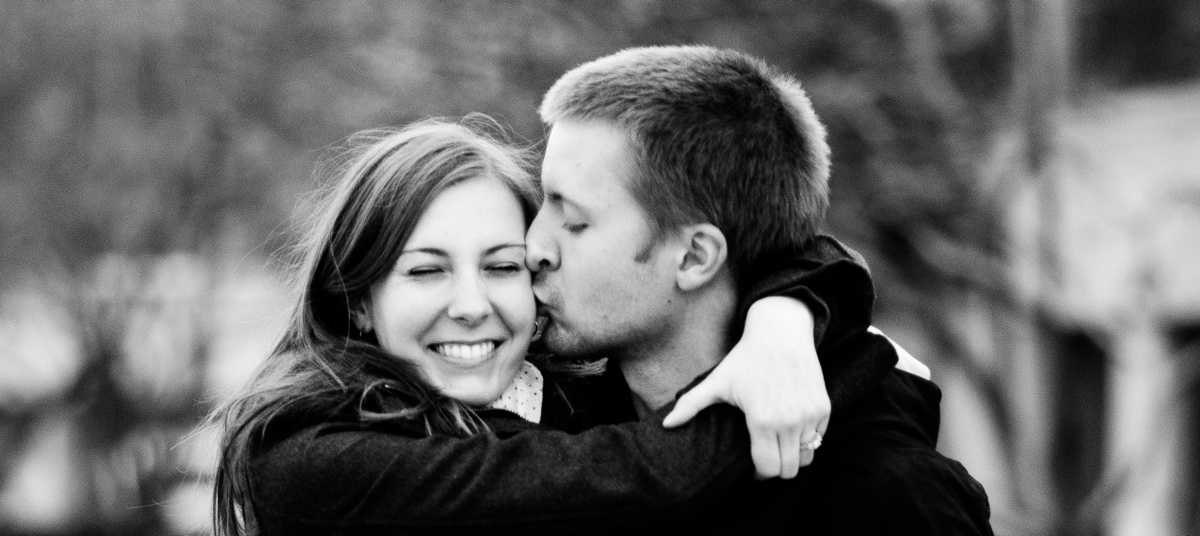
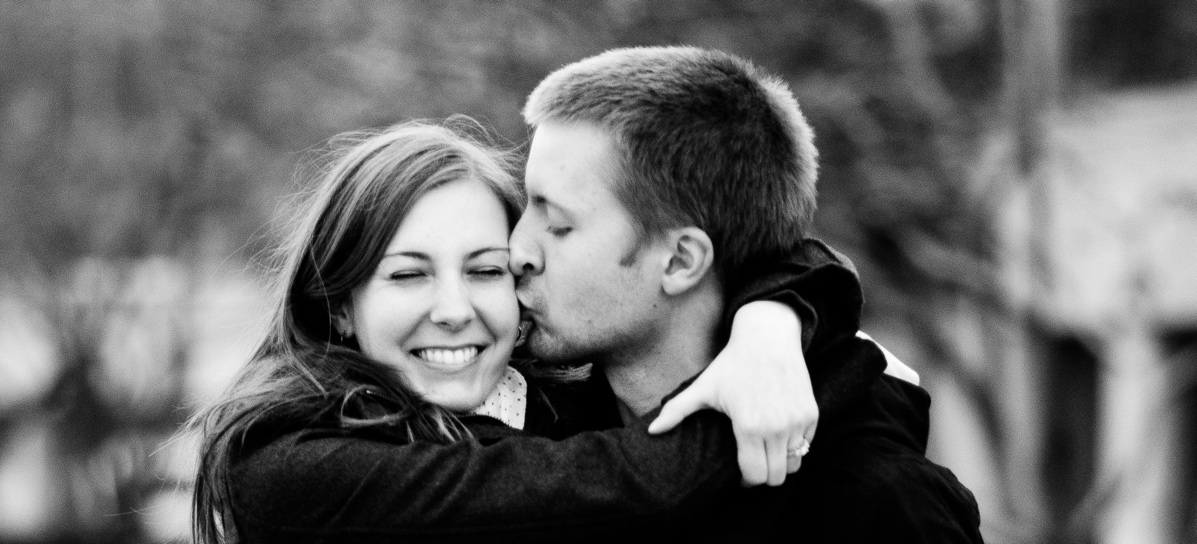
Increase hero image height for xx-large screen sizes

diff --git a/css/app.css b/css/app.css
@@ -80,8 +80,28 @@ a:active {
     /*background-image: url(../img/hero1.jpg);*/
     margin-top: 0;
     margin-bottom: 0;
-    height: 480px;
+    height: 500px;
 }
+
+/* XX-Large and up */
+@media screen and (min-width: 90em) {
+
+    div.hero {
+        height: 550px;
+    }
+
+}
+
+
+/*Retina*/
+@media only screen and (-webkit-min-device-pixel-ratio: 2), only screen and (min--moz-device-pixel-ratio: 2), only screen and (-o-min-device-pixel-ratio: 2/1), only screen and (min-device-pixel-ratio: 2), only screen and (min-resolution: 192dpi), only screen and (min-resolution: 2dppx) {
+
+     div.hero {
+         height: 700px;
+     }
+
+ }
+
 
 button.primary {
     background-color: #2A4C6E;
